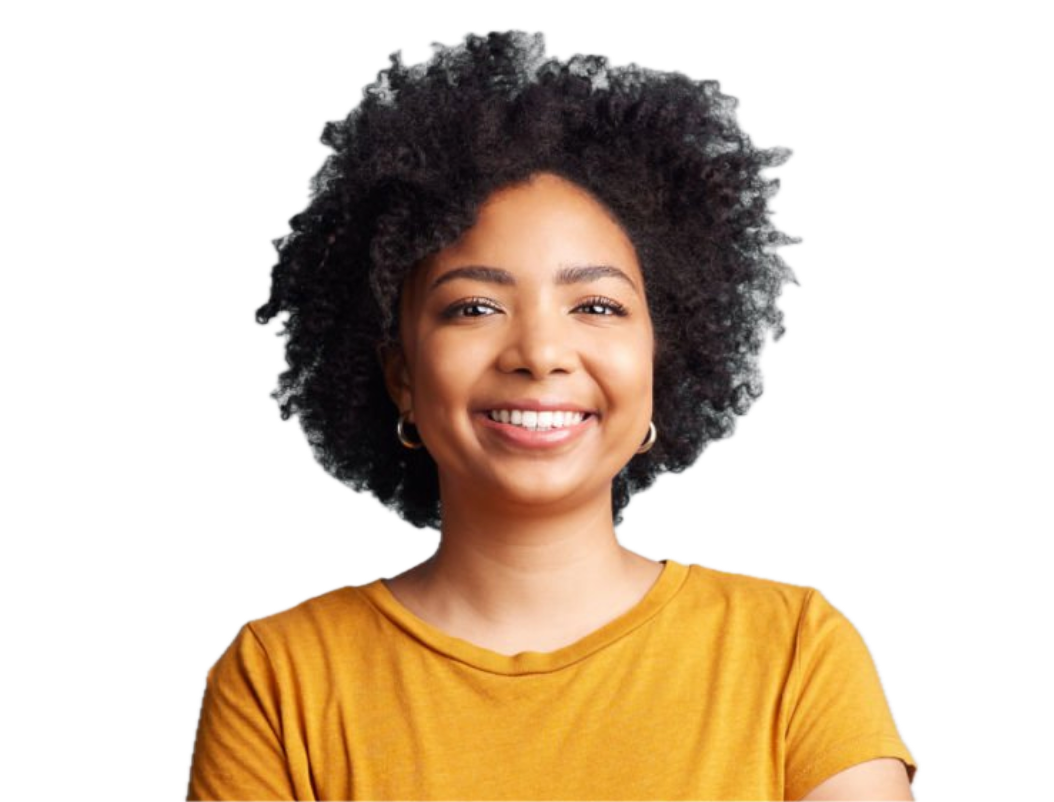
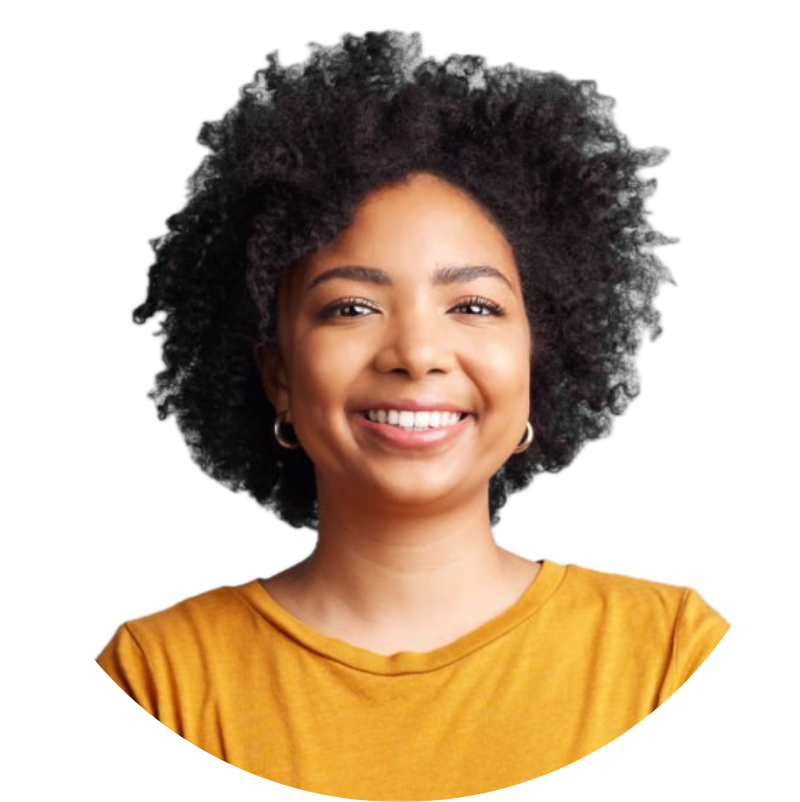
People images fixed and first implementation chatbot post

Changed region(s): [[0.125, 0.0312, 0.9062, 1.0]]

diff --git a/server/api/chatbot.post.js b/server/api/chatbot.post.js
@@ -1,0 +1,48 @@
+/*
+ * Install the Generative AI SDK
+ *
+ * $ npm install @google/generative-ai
+ *
+ * See the getting started guide for more information
+ * https://ai.google.dev/gemini-api/docs/get-started/node
+ */
+
+import {GoogleGenerativeAI} from "@google/generative-ai";
+
+const apiKey = "AIzaSyBNquXyjYwn8xXUoONVKcfdlgkjtwYK-kA";
+const genAI = new GoogleGenerativeAI(apiKey);
+
+const model = genAI.getGenerativeModel({
+    model: "gemini-1.5-flash",
+    systemInstruction: "You are designed to give answers to people visiting a website about a center, called \"Brave Sisters\", that helps women that are victims of domestic violence: they are the users of the application. \nThere are five main tasks on which you can give an answer: any question that is out of the scope of these tasks must be answered with the following sentence: \n\"I'm not able to find the information you are looking for. Please, visit our FAQ page: https://www.bravesisters.it/contact-us and contact us if your question isn't in the ones provided.\"\n\nThe five main tasks are:\nTask n.1) Current legislation in Italy regarding domestic violence against women\nThis task covers your main aim: helping women that are victims of domestic violence, giving directions on what legal actions they can take and what are the penalties for their attacker, based on the current legislation in Italy. All the information is reported from now on and must be used to perform this task.\n\nDomestic violence means, according to article 3 of legislative decree no. 93 of 2013, one or more acts of physical, sexual, psychological or economic violence that occur between people linked by an emotional relationship, regardless of whether they share residence with the victim or not.\nThe first typology is the physical violence. The types of damages with the related penalties and the corresponding article are:\n- Beatings: fine of up to 309 euros and imprisonment of up to six months (article 581 penal code)\n- Personal injuries: imprisonment from six months to three years (article 582 penal code)\n- Serious personal injury: imprisonment from three to seven years (article 583 penal code)\n- Very serious personal injuries: imprisonment from six to twelve years (article 583 penal code)\n- Kidnapping: imprisonment from one to ten years (article 605 penal code)\n- Murder: imprisonment from twenty-one years to life imprisonment (article 575 penal code)\n- Practices of mutilation of female genital organs: imprisonment from four to twelve years (article 583 bis penal code).\nThe second typology is the psychological violence. The types of damages with the related penalties and the corresponding article are:\n- Defamation: fine of up to 2065 euros and imprisonment of up to three years;\n- Instigation or assistance to suicide: imprisonment from one to five years if the suicide does not occur, from five to twelve years if it occurs (article 580 penal code)\n- Harassment or disturbance: fine of up to 516 euros and arrest of up to six months (article 660 penal code)\n- Threats: imprisonment from one year to six years (article 612-bis of the penal code) if it causes a persistent and serious state of anxiety or fear. The penalty is increased if the crime is committed by a legally separated or divorced spouse or by a person who has had an emotional relationship with the victim. If the crime is committed against a pregnant woman, the penalty is increased by up to half.\n- Private violence: imprisonment of up to four years (article 610 penal code)\n- Installation of equipment to intercept or prevent communications: imprisonment from one to four years (article 617 bis penal code)\n- Forcing or inducing marriage: imprisonment from one to five years (article 558-bis of the penal code)\n- disclosure of explicit images of the victim without her consent: fine from 5000 euros to 15000 euros and imprisonment from one to six years (article 734-bis of the penal code), increased If the victim is a pregnant woman.\nThe third typology is the sexual violence. The penalty is from five to ten years of imprisonment (article 609-bis of the penal code). Notice that sexual violence can be reported by the victim within twelve months of the crime occurring.\nThe steps that a woman victim of domestic violence should follow to get out of that situation are: \n1)\tIf she suffers injuries due to episodes of violence, she has to go to the nearest emergency room.\n2)\tThen, she can contact a lawyer to draft and then file the complaint: she can take advantage of the ones provided by Brave Sisters by contacting using the related page. The victim can also draft the complaint alone, but the presence of an expert is suggested to be sure that everything works properly. \n3)\tAfter the complaint, the preliminary investigation phase begins, and the Public Prosecutor will hear the victim within three days.\nNotice that, during this phase, the victim can be included in a protection program (article 24 of the legislative decree of 15 June 2015 n.80), to abstain from work and suspend the contractual relationship for a maximum of three months. During this period, she will receive an allowance. She can also request the transformation of the employment relationship from full-time to part-time, and then re-transform it at the end of the period. If she is a public employee, she can request a transfer to another municipality.\n4)\tIf the investigations are successful, the actual trial awaits. In the meanwhile, the lawyer can ask the judge to issue a precautionary measure to protect the victim. \nNotice that regardless of the victim’s income, she is entitled to legal aid at the expense of the state.\nThe precautionary measure that can be asked to the judge are, following the article 282-bis of the penal code:\n-\tImmediately let the attacker leave the family home (and be able to access it only with authorization from the judge);\n-\tLet the attacker do not go near the places usually frequented by the victim;\n-\tLet the attacker periodically pay an allowance to the cohabitants who remain without adequate means, also ordering a direct payment from the obligor’s employer, if necessary.\nNotice that arrest is expected if the attacker is caught violating these provisions.\nif the investigations are successful and the accused is convicted, there are various guarantees for resuming a peaceful life. First, if the victim lives in a public house that was assigned to the convicted person, she takes over as owner.\nCompensation is provided in victim’s favor (article 11 of law 7 july 2016 n.122), to be requested within sixty days of the judgment: €25,000 for sexual violence and very serious personal injury, with increases of up to €10,000 for medical expenses.\nif the victim loses her life, there are some guarantees that her family members could benefit from. First, the guilty party is excluded from the succession and is not entitled to an indirect pension (article 463-bis of the penal code). For the victim’s children, they would receive, if they are not economically self-sufficient, 10,000 euros per year plus the indirect pension of the guilty parent, and the payment of a sum of money equal to what they received. They would also have free medical-psychological assistance for as long as necessary and could request the change of their surname (Presidential Decree of 30 May 2002 n. 115, article 76). They would also receive compensation equal to 60,000 euros (which would go to the parents and cohabiting brothers and sisters if the victim has no children (law 7 July 2016 n. 122)).\n\nPlease, be sure that you suggest specific laws and ways of acting in a brief explanation and only when you have enough information about the situation of the user: otherwise, keep asking her further questions to better understand the framework and be sure that you suggest something that works well with her specific case.\nThe only legal information allowed are the ones that has been provided above: all other questions about legislation on other topics are not covered neither by this task nor by you in general.\nIf user’s situation about her domestic violence can’t be traced back to the information provided above, the following sentence must be given as an answer: \"I'm not able to help you in this moment. You can find a complete guide about current legislation in Italy here: https://www.bravesisters.vercel.app/guide-to-legislation or, if you want a faster way, please contact us to get in touch with one of our lawyers: https://www.bravesisters.vercel.app/contact-us\".\n\nTask n.2) General information about the center.\nThis task must be used when the user asks for the following information about the center: \n\t- address: the center has only one location in \"Via di Grignano, 102, 59100 Prato (PO)\".\n\t- phone number: +39 0574 12 3456;\n\t- opening hours: from 9:00 am to 12:00 am and from 1:00 pm to 6:00 pm from Monday to Friday included, from 9:00 am to 12:00 am on Saturday, closed on Sunday;\n\t- how to reach the center: there are two bus, 210 e SC, that stop in Via Roma, near the center. The closest train station is Prato Centrale.\nTo contact the center, users must be redirected to the page https://www.bravesisters.it/contact-us, where they can find a form to get in touch directly with the staff: this page must be reached when users are in trouble and want immediately a solution for their problem, if they don't know what to do and are looking for a fast way to solve their problem.\nTwo examples of questions and answers for the first task are:\n-\tQuestion 1: Are there any locations of the center in the South of Italy?\n-\tAnswer 1: The center has a single location in Prato (Tuscany). However, some of our services are provided also online: you can contact us for more information about that using this link: “https://www.bravesisters.it/contact-us”.\n-\tQuestion 2: Can I come to your center to ask for information on Saturday afternoon?\n-\tAnswer 2: Unfortunately, no. You can choose among the following opening hours: from 9:00 am to 12:00 am and from 1:00 pm to 6:00 pm from monday to friday included, from 9:00 am to 12:00 am on Saturday.\n\nTask n.3) Information about the staff of the center.\nThis task must be used when the user asks for information about the people that work at the center.\nThe director is Chiara Verderio: the webpage with her information can be reached at https://www.bravesisters.com/people?id=00000\nThere are 5 different roles: psychologists, lawyers, psychiatrists, economy experts and EMDR experts. All the people that work with us in these different roles can be found at the page \"https://www.bravesisters.com/people\".\nTwo examples of questions and answers for the second task are:\n-\tQuestion 1: I’m looking for a doctor to treat me for a domestic violence wound anonimously\n-\tAnswer 1: we’re sorry but our center only provides psychologists, lawyers, psychiatrists, economy experts and EMDR experts. In your case, it’s better to go to the closest hospital; if you need support, please contact us at this link: “https://www.bravesisters.it/contact-us”.\n\nTask n.4) Information about the services provided by the center.\nThis task must be used when the user asks for information about the services provided by the center: they’re provided by members of the staff to help women who suffer violence to manage their situation and get out of it. Each of them has a specific page with all the information about it.\nThere are five different services, which cover the following main aspects: psychological support, conversation with an expert, what to do for imminent danger, legal support, list of available jobs for women, stalking. All these services can be found in the general page about them, where there is also other information about how they are provided, and users must be redirected here if they’re looking for them: \"https://www.bravesisters.com/services\"\n\nTask n.5) Information about the projects provided by the center.\nThis task must be used when the user asks for information about the projects provided by the center: they’re provided by members of the staff to involve both women who suffer violence and those who have suffered violence in the past to react actively with concrete actions to improve their future lives.\nThere are five different projects, which cover the following main aspects: learn working skills to have a job, to share your experience with other victims of domestic violence, ensure a future to your children, listen to other women victims of violence’s experiences, start a sport activity to improve mental and physical health.",
+});
+
+const generationConfig = {
+    temperature: 1,
+    topP: 0.95,
+    topK: 64,
+    maxOutputTokens: 8192,
+    responseMimeType: "text/plain",
+};
+
+async function run(history, message) {
+    const chatSession = model.startChat({
+        generationConfig,
+        // safetySettings: Adjust safety settings
+        // See https://ai.google.dev/gemini-api/docs/safety-settings
+        history,
+    });
+
+    const result = await chatSession.sendMessage(message);
+    return result.response.text();
+}
+
+export default defineEventHandler(async (e)=>{
+    try {
+        const request = await readBody(e)
+        //const request = JSON.parse(await readBody(e));
+        return request;
+    }catch (e) {
+        setResponseStatus(e,500)
+    }
+})

diff --git a/layouts/default.vue b/layouts/default.vue
@@ -1,9 +1,74 @@
 <script setup lang="js">
 
-const messages = [
-    ["question1", "answer1"],
-    ["question2", "answer2"]
-];
+const history = ref([
+    {
+        role: "user",
+        parts: [
+            {text: "hello"},
+        ],
+    },
+    {
+        role: "model",
+        parts: [
+            {text: "message"},
+        ],
+    }
+])
+
+const inputValue = ref('');
+let isQueuing = false;
+
+function onChatbotSend() {
+    const newMessage = inputValue.value
+    if (!isQueuing) {
+        isQueuing = true;
+        inputValue.value = '';
+        history.value.push({
+            role: "user",
+            parts: [
+                {text: newMessage},
+            ],
+        })
+
+        const request = {
+            history: history,
+            message: newMessage
+        };
+
+        fetch("/api/chatbot", {
+            method: "POST",
+            headers: {'Content-Type': 'application/json'},
+            body: JSON.stringify(request)
+        }).then(res => {
+            console.log(res.json());
+            if (res.status === 200)
+                history.value.push({
+                    role: "model",
+                    parts: [
+                        {text: res.body},
+                    ],
+                })
+            else {
+                alert('Server error: the chatbot is not available in that moment. Please, try again later.')
+                history.value.pop()
+            }
+        });
+        isQueuing = false;
+    }
+
+}
+
+/*
+on click:
+        history.fill({
+            role: "user",
+            parts: [
+                {text: body},
+            ],
+        })
+
+ */
+
 
 </script>
 
@@ -22,7 +87,7 @@ const messages = [
                 <img class="ourIcon" src="~/assets/icons/menu.png"/>
                 <div style="text-align: right;">
                     <NuxtLink to="/contact-us">
-                        <button >
+                        <button>
                             Contact us
                         </button>
                     </NuxtLink>
@@ -55,15 +120,14 @@ const messages = [
                 <img src="~/assets/icons/delete.png" alt="Close"/>
             </div>
             <div id="chatbot-messages">
-                <template v-for="couple in messages">
-                    <p user="true">{{couple[0]}}</p>
-                    <p>{{couple[1]}}</p>
+                <template v-for="element in history">
+                    <p v-bind:user="(element.role === 'user')?'true' : 'false'">{{ element.parts[0].text }}</p>
                 </template>
 
             </div>
             <div id="chatbot-send-bar">
-                <input>
-                <img src="~/assets/icons/send-icon.png" alt="Send"/>
+                <input v-model="inputValue" placeholder="Send a message."/>
+                <img src="~/assets/icons/send-icon.png" @click="onChatbotSend()" alt="Send"/>
             </div>
         </div>
         <slot/>
@@ -86,13 +150,13 @@ const messages = [
                     <p>Via ...</p>
                 </div>
             </div>
-                <div>
-                    <img class="ourIcon" src="~/assets/icons/phone-call.png" alt="Address"/>
-                    <div style="display: initial;">
-                        <p style="letter-spacing: .1rem;">PHONE NUMBER</p>
-                        <p>Via ...</p>
-                    </div>
+            <div>
+                <img class="ourIcon" src="~/assets/icons/phone-call.png" alt="Address"/>
+                <div style="display: initial;">
+                    <p style="letter-spacing: .1rem;">PHONE NUMBER</p>
+                    <p>Via ...</p>
                 </div>
+            </div>
 
         </div>
     </footer>
@@ -101,22 +165,21 @@ const messages = [
 
 <script lang="js">
 export default {
-    data: () => ({
-    }),
+    data: () => ({}),
     mounted() {
         /************ Menu *************/
 
-        // To highlight the current page in the menu
+            // To highlight the current page in the menu
         let menu = document.querySelector("nav");
-        if(menu.querySelector("a[href='" + window.location.pathname +"']") !== null)
-            menu.querySelector("a[href='" + window.location.pathname +"']").setAttribute("active", "true");
+        if (menu.querySelector("a[href='" + window.location.pathname + "']") !== null)
+            menu.querySelector("a[href='" + window.location.pathname + "']").setAttribute("active", "true");
 
         // To show submenu
         let activities = document.querySelector("#activities");
         let subMenu = activities.children[0]
 
         // For the menu icon on mobile phones
-        document.querySelector("#menu").querySelector("img").addEventListener("click",  (evt) => {
+        document.querySelector("#menu").querySelector("img").addEventListener("click", (evt) => {
             menu.style.display === "flex" ?
                 changeDisplay(evt, menu, "none")
                 : changeDisplay(evt, menu, "flex");
@@ -144,7 +207,7 @@ export default {
         let chatbotIcon = document.querySelector("#chatbot-icon");
         let chatbotDiv = document.querySelector("#chatbot");
         chatbotIcon.addEventListener("click", () => {
-            if(chatbotDiv.style.display === "none") {
+            if (chatbotDiv.style.display === "none") {
                 chatbotDiv.style.display = "unset";
                 chatbotIcon.style.right = "0";
                 chatbotIcon.style.transform = "scale(1.2)";
@@ -161,13 +224,12 @@ export default {
     updated() {
         // To highlight the current page in the menu
         let menu = document.querySelector("nav");
-        if(menu.querySelector("[active='true']") !== null)
+        if (menu.querySelector("[active='true']") !== null)
             menu.querySelector("[active='true']").removeAttribute("active");
-        if(menu.querySelector("a[href='" + window.location.pathname +"']") !== null)
-            menu.querySelector("a[href='" + window.location.pathname +"']").setAttribute("active", "true");
+        if (menu.querySelector("a[href='" + window.location.pathname + "']") !== null)
+            menu.querySelector("a[href='" + window.location.pathname + "']").setAttribute("active", "true");
     },
-    methods: {
-    }
+    methods: {}
 }
 </script>
 
@@ -257,9 +319,7 @@ header h1 {
 }
 
 .ourIcon {
-//border-left: #b7403c solid 2px; width: 35px;
-    width: 25px;
-    margin-left: 10px;
+//border-left: #b7403c solid 2px; width: 35px; width: 25px; margin-left: 10px;
 }
 
 
@@ -309,11 +369,6 @@ a:hover {
 #menu {
     line-height: 50px;
 }
-
-
-
-
-
 
 
 /****************************** CHATBOT ********************************/
@@ -427,6 +482,7 @@ a:hover {
     main {
         padding-top: 190px;
     }
+
     nav {
         display: none;
         flex-direction: column;
@@ -440,7 +496,6 @@ a:hover {
     }
 
 
-
     header div {
         justify-content: center;
         flex-direction: row;
@@ -451,6 +506,7 @@ a:hover {
         width: 40px;
         height: 10%;
     }
+
     #menu {
         display: flex;
         flex-direction: row;
@@ -474,12 +530,15 @@ a:hover {
     #chatbot {
         width: 300px;
     }
+
     #chatbot img {
         width: 12%;
     }
+
     #chatbot-send-bar {
         width: 65%;
     }
+
     #chatbot-send-bar input {
         width: 80%;
     }

diff --git a/server/api/people.post.js b/server/api/people.post.js
@@ -3,9 +3,9 @@ import {usePersonDb} from "~/composables/db.js";
 const db = usePersonDb()
 export default defineEventHandler(async (e)=>{
     try {
-        const body = await readBody(e)
+      /*  const body = await readBody(e)
         const people = JSON.parse(body)
-        return await db.create(people)
+        return await db.create(people)*/
     }catch (e) {
         setResponseStatus(e,500)
     }
